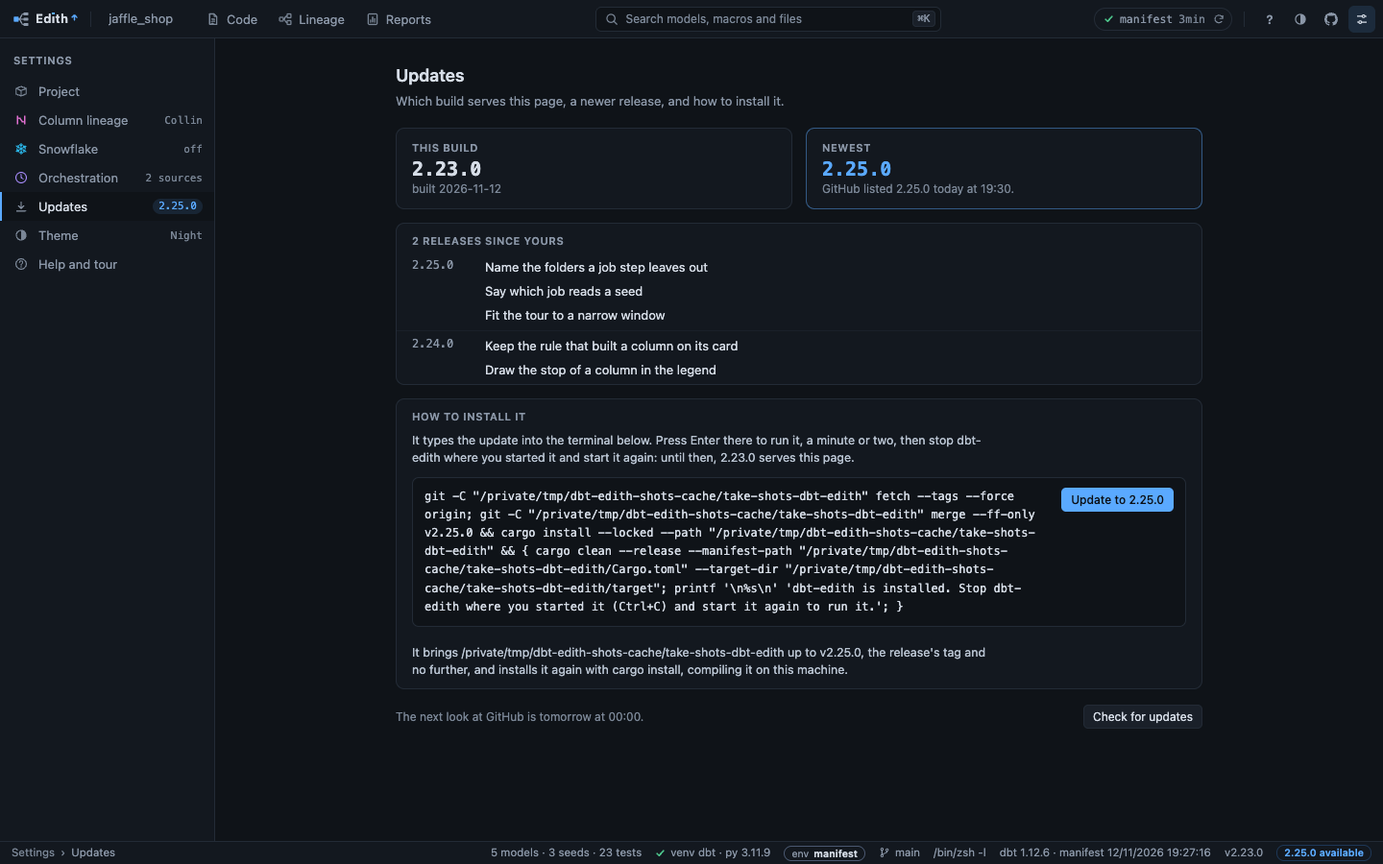
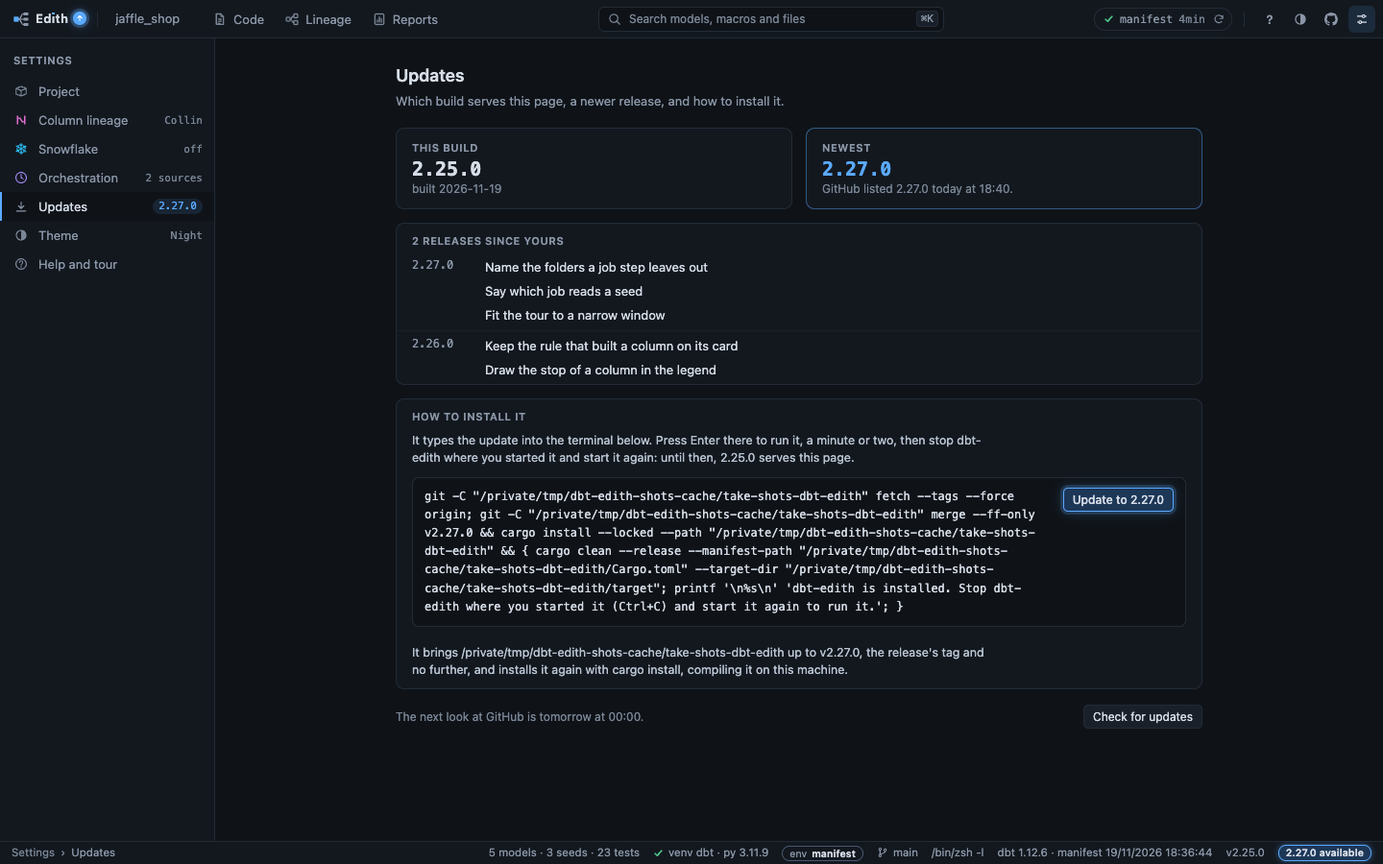
Mark a newer release with a badge (#223)
Every sign that a newer release is out (the arrow beside Edith's name,
the status bar's pill, the menu's "Update to" button, the Updates
section's Newest card and the version beside Updates in the settings'
list) read the theme's accent. In Graphite the accent is grey, so on a
Graphite install all five went grey, and the one state that wants to be
noticed was the quietest thing on the screen. They now keep a colour of
their own in every theme, and Edith's name carries a badge.

## What changes for someone using it

- **Graphite, the case this is for:** a newer release shows as a blue
  disc with a white arrow, ringed by a halo, in the corner of Edith's
  name; the status bar's pill is filled and glows; the "Update to"
  buttons in the menu and in Settings > Updates have a blue fill and a
  halo; the Newest card and the version beside Updates are blue. Nothing
  else in Graphite turns blue.
- **Night** looks the same blue as before for the colour, with the new
  badge, the filled pill and the halo. **Light** uses its own darker
  blue (at least 3:1 on its page and sidebar), **Halloween** its orange.
- Nothing changes when no newer release is out. No version bump: this
  lands in 2.25.0 together with the next change, Edith's mark moving at
  rest.

Pictures (Jaffle Shop, headless Chrome; before is main in Graphite,
after is this branch in Graphite and in Night):

| | Before (Graphite) | After (Graphite) | After (Night) |
|---|---|---|---|
[…]

diff --git a/web/app.css b/web/app.css
@@ -9,6 +9,10 @@
   --accent: #5aa9ff;
   --accent-rgb: 90, 169, 255;   /* --accent as channels, for the translucent copies of it */
   --accent-dim: #1d3757;
+  /* A newer release's colour, held in every theme so that Graphite's grey accent does not take it (0181). */
+  --update: #5aa9ff;
+  --update-dim: #1d3757;
+  --on-update: #ffffff;   /* the arrow drawn on the badge */
   --model: #4da3ff;
   --source: #e0a34b;
   --seed: #4ec78d;
@@ -472,6 +476,8 @@
   --accent: #1f6fd1;
   --accent-rgb: 31, 111, 209;
   --accent-dim: #d6e5f8;
+  --update: #1f6fd1;
+  --update-dim: #d6e5f8;
   /* States: a pictogram */
   --ok: #1e8a57;
   --warn: #b26b00;
@@ -614,6 +620,8 @@
   --accent: #ff7a1a;
   --accent-rgb: 255, 122, 26;
   --accent-dim: #7a3a0e;
+  --update: #ff7a1a;
+  --update-dim: #7a3a0e;
   /* States: a pictogram */
   --ok: #4ec78d;
   --warn: #e0a34b;
@@ -998,14 +1006,16 @@ kbd {
 #status-where .lead { color: var(--fg-mute); }
 #status-where .note, #status-where .sepa { color: var(--fg-mute); }
 #status-where .sepa { margin: 0 6px; }
-/* A newer dbt-edith (0068): outlined in the accent, quieter than an
-   environment's filled pill, since nothing is wrong with the one running. */
+/* A newer dbt-edith (0068): filled in the update colour, which every theme
+   keeps, Graphite's grey accent aside (0181), with a soft halo, so it is seen
+   across the bar although nothing is wrong with the one running. */
 .updpill {
-  font: 600 10.5px/15px var(--ui); color: var(--accent); background: transparent;
-  border: 1px solid var(--accent-dim); border-radius: 8px; padding: 0 7px; cursor: pointer;
+  font: 600 10.5px/15px var(--ui); color: var(--fg); background: var(--update-dim);
+  border: 1px solid var(--update); border-radius: 8px; padding: 0 7px; cursor: pointer;
+  box-shadow: 0 0 6px color-mix(in srgb, var(--update) 45%, transparent);
 }
-.updpill:hover { border-color: var(--accent); }
-.updpill:focus-visible { outline: 2px solid var(--accent); outline-offset: 1px; }
+.updpill:hover { background: color-mix(in srgb, var(--update) 35%, var(--bg)); }
+.updpill:focus-visible { outline: 2px solid var(--update); outline-offset: 1px; }
 /* The venv (0069): green with a check once one is active, amber with a
    triangle when one was found but is not, since a dbt typed in the terminal
    then runs whatever python comes first on the PATH. Tinted rather than
@@ -1054,16 +1064,18 @@ kbd {
 .relrow .ver { flex: 0 0 46px; font: 10.5px var(--mono); color: var(--fg-dim); }
 .relrow .lbl { flex: 1; min-width: 0; overflow: hidden; text-overflow: ellipsis; white-space: nowrap; }
 .updfoot .menunote { flex: 1; padding-bottom: 0; }
-/* The update, drawn as the app's primary button with how it goes under it,
-   and once it is installed the restart it waits for, in the colour of done. */
+/* The update, drawn as the app's primary button in the update colour (0181),
+   ringed by a still halo, with how it goes under it, and once it is installed
+   the restart it waits for, in the colour of done. */
 .envmenu button.updrun {
   display: inline-block; width: auto; margin: 4px 8px 2px; padding: 5px 12px;
-  background: var(--accent-dim); border: 1px solid var(--accent); border-radius: 5px; font-weight: 600;
+  background: var(--update-dim); border: 1px solid var(--update); color: var(--fg); border-radius: 5px; font-weight: 600;
+  box-shadow: 0 0 0 3px color-mix(in srgb, var(--update) 18%, transparent), 0 0 12px color-mix(in srgb, var(--update) 30%, transparent);
 }
-.envmenu button.updrun:hover, .envmenu button.updrun:focus-visible { background: var(--accent-hover); }
-.envmenu button.updrun:focus:not(:focus-visible) { background: var(--accent-dim); }
+.envmenu button.updrun:hover, .envmenu button.updrun:focus-visible { background: color-mix(in srgb, var(--update) 40%, var(--bg)); }
+.envmenu button.updrun:focus:not(:focus-visible) { background: var(--update-dim); }
 /* The second command of a choice, drawn as the menu's other buttons are. */
-.envmenu button.updrun.alt { background: var(--bg-3); border-color: var(--line); font-weight: 500; }
+.envmenu button.updrun.alt { background: var(--bg-3); border-color: var(--line); font-weight: 500; box-shadow: none; }
 .envmenu button.updrun.alt:hover, .envmenu button.updrun.alt:focus-visible { background: var(--btn-hover); border-color: var(--line-strong); }
 .envmenu button.updrun.alt:focus:not(:focus-visible) { background: var(--bg-3); }
 .updmenu .updready { padding: 4px 8px 2px; font: 600 12px var(--ui); color: var(--ok); }
@@ -1131,14 +1143,22 @@ kbd {
   .brand.flowing .bm-pk { opacity: 0; }
   .brand.flowing .bm-arm { opacity: 1; stroke: var(--accent); }
 }
-/* A newer release is out: the Updates glyph beside the name, at the height of
-   its capitals and inside the button so the divider after it stays clear, the
-   pill in the status bar saying which. In the pill's accent, not the warning
-   colour: nothing is wrong with the one running. */
-.brand.newer { padding-right: 15px; }
+/* A newer release is out: a badge in the corner of the name, inside the button
+   so the divider after it stays clear, the pill in the status bar saying which.
+   The disc is the badge's ground, in the update colour with a ring and a glow
+   around it, and the Updates arrow on it is the shape that carries the meaning
+   (0148): white, over a disc that is blue in every theme, Graphite's grey
+   accent aside (0181). Nothing is wrong with the one running, so it is not the
+   warning colour. */
+.brand.newer { padding-right: 22px; }
+.brand.newer::before {
+  content: ''; position: absolute; top: 4px; right: 3px; width: 14px; height: 14px; border-radius: 50%;
+  background: var(--update);
+  box-shadow: 0 0 0 3px color-mix(in srgb, var(--update) 25%, transparent), 0 0 10px color-mix(in srgb, var(--update) 55%, transparent);
+}
 .brand.newer::after {
-  content: ''; position: absolute; top: 6px; right: 4px; width: 9px; height: 9px;
-  background: var(--accent); -webkit-mask: var(--m-newer) center / contain no-repeat; mask: var(--m-newer) center / contain no-repeat;
+  content: ''; position: absolute; top: 7px; right: 6px; width: 8px; height: 8px;
+  background: var(--on-update); -webkit-mask: var(--m-newer) center / contain no-repeat; mask: var(--m-newer) center / contain no-repeat;
 }
 .sep { width: 1px; height: 18px; background: var(--line); }
 /* The settings' Python row (.setinner .chip, below) is built on these: the top bar's
@@ -1863,7 +1883,7 @@ kbd {
 .setglyph { width: 14px; height: 14px; fill: none; stroke: currentColor; stroke-width: 1.4; stroke-linecap: round; stroke-linejoin: round; }
 .setwarn { margin-left: auto; width: 10px; height: 10px; flex: 0 0 auto; background: var(--warn); -webkit-mask: var(--m-warn) center / contain no-repeat; mask: var(--m-warn) center / contain no-repeat; }
 .sethint { margin-left: auto; flex: 0 0 auto; font: 11px var(--mono); color: var(--fg-mute); }
-.sethint.new { padding: 0 6px; border-radius: 8px; line-height: 16px; color: var(--accent); background: rgba(var(--accent-rgb), .12); }
+.sethint.new { padding: 0 6px; border-radius: 8px; line-height: 16px; color: var(--update); background: color-mix(in srgb, var(--update) 12%, transparent); }
 .setview { flex: 1 1 0; min-width: 0; overflow: auto; }
 .setinner { flex: none; width: 100%; max-width: 920px; margin: 0 auto; padding: 26px 40px 48px; }
 .sethead { margin-bottom: 18px; }
@@ -1899,6 +1919,10 @@ kbd {
 .setinner .btn { display: inline-flex; align-items: center; gap: 6px; }
 .setinner .btn.primary { background: var(--accent); border-color: transparent; color: var(--on-accent); font-weight: 500; }
 .setinner .btn.primary:hover { background: var(--accent); filter: brightness(1.08); }
+/* The recommended install of a newer release, as the menu's button is (0181). */
+.setinner .btn.primary.updgo { background: var(--update-dim); border-color: var(--update); color: var(--fg);
+  box-shadow: 0 0 0 3px color-mix(in srgb, var(--update) 18%, transparent), 0 0 12px color-mix(in srgb, var(--update) 30%, transparent); }
+.setinner .btn.primary.updgo:hover { background: color-mix(in srgb, var(--update) 40%, var(--bg)); filter: none; }
 .setinner .mono { font: 12px var(--mono); }
 .setinner .dim { color: var(--fg-mute); font-size: 12px; }
 .setnote { margin: 4px 0; font-size: 12px; line-height: 1.5; color: var(--fg-dim); }
@@ -1999,10 +2023,10 @@ kbd {
 /* Updates: this build beside the newest, the releases since, how to install. */
 .vcards { display: grid; grid-template-columns: 1fr 1fr; gap: 14px; }
 .vcard { padding: 12px 16px; border: 1px solid var(--line); border-radius: 9px; background: var(--bg-2); }
-.vcard.new { border-color: rgba(var(--accent-rgb), .45); }
+.vcard.new { border-color: color-mix(in srgb, var(--update) 45%, transparent); }
 .vk { font-size: 11px; font-weight: 600; letter-spacing: .05em; text-transform: uppercase; color: var(--fg-dim); }
 .setinner .vv { margin-top: 2px; font: 600 20px var(--mono); }
-.vcard.new .vv { color: var(--accent); }
+.vcard.new .vv { color: var(--update); }
 /* Words, where there is no version to show: the text size, quietly. */
 .setinner .vv.words { margin-top: 2px; font: 13px/1.45 var(--ui); color: var(--fg-dim); }
 .vs { font-size: 12px; color: var(--fg-mute); }

diff --git a/web/tests/themes.js b/web/tests/themes.js
@@ -51,8 +51,8 @@ check('app.css opens with Night, the rule the other three share, then Graphite, 
 check('the rules begin with the box model reset', css.slice(blocks[4].end).replace(/^(?:\s|\/\*[\s\S]*?\*\/)*/, '').indexOf('* { box-sizing'), 0);
 ok('every name any block declares is declared in Night, so a theme has something to part from',
   [derived, graphite, light, halloween].every(function (b) { return b.names.every(function (n) { return n in night.decl; }); }));
-check('Graphite and Halloween declare the same set',
-  graphite.names.slice().sort(), halloween.names.slice().sort());
+check('Graphite and Halloween declare the same set, Halloween adding its own update colour (0181)',
+  graphite.names.concat(['--update', '--update-dim']).sort(), halloween.names.slice().sort());
 ok('Light declares that set and its own twins', graphite.names.every(function (n) { return n in light.decl; }) && light.names.length > graphite.names.length);
 check('each says whether it is dark or light', [night.decl['color-scheme'], graphite.decl['color-scheme'], light.decl['color-scheme'], halloween.decl['color-scheme']],
   ['dark', 'dark', 'light', 'dark']);
@@ -232,6 +232,24 @@ check('every theme declares all sixteen ANSI colours itself',
     ANSI.filter(function (n) { return n !== '--ansi-k' && ratio(b.decl[n], own('--bg')) < 3; })
       .map(function (n) { return n + ' ' + b.decl[n] + ' ' + ratio(b.decl[n], own('--bg')).toFixed(2); }), []);
 });
+
+// A newer release keeps its colour in every theme (0181): Night names it, Light and Halloween restate it as their accent pair, Graphite
+// does not, so its grey accent never reaches the badge, the pill or the button.
+(function () {
+  var names = ['--update', '--update-dim', '--on-update'];
+  check('Night names the update colour, its dim and the arrow on it; Graphite names none of them',
+    [names.filter(function (n) { return !(n in night.decl); }), names.filter(function (n) { return n in graphite.decl; })], [[], []]);
+  check('Light and Halloween restate the pair as their accent pair, and not the arrow',
+    [light, halloween].map(function (b) { return [b.decl['--update'] === b.decl['--accent'], b.decl['--update-dim'] === b.decl['--accent-dim'], '--on-update' in b.decl]; }),
+    [[true, true, false], [true, true, false]]);
+  check('Night\'s pair is its accent pair', [night.decl['--update'] === night.decl['--accent'], night.decl['--update-dim'] === night.decl['--accent-dim']], [true, true]);
+  check('Graphite takes Night\'s, which has a tint where its accent has none', (function () {
+    var c = channels2(night.decl['--update']);
+    return [c[0] !== c[2], night.decl['--update'] !== graphite.decl['--accent']];
+  }()), [true, true]);
+  check('Light\'s update colour is at least 3:1 on its page and its sidebar, the badge\'s ring and the pill\'s border being graphics',
+    [ratio(light.decl['--update'], light.decl['--bg']) >= 3, ratio(light.decl['--update'], light.decl['--bg-2']) >= 3], [true, true]);
+}());
 
 print('\n--- Graphite ---');
 function channels(v) {

diff --git a/web/tests/shapes.js b/web/tests/shapes.js
@@ -58,6 +58,7 @@ print('--- nothing is a round marker ---');
 var ROUND = {
   '.envmenu button.switch .knob, .sgroup button.switch .knob': 'where it sits on its track is the state',
   '.rb': 'a radio\'s ring is the control, picked or not',
+  '.brand.newer::before': 'the badge\'s ground: the arrow on it, masked in ::after, is the shape that says a release is out',
 };
 var round = rules.filter(function (r) { return /border-radius:\s*(50%|100%|\d{3,}px)/.test(r.body); });
 check('every round rule of app.css is a control on the allowlist, each with its reason',
@@ -84,6 +85,9 @@ print('\n--- every marker is drawn with a shape ---');
 ].forEach(function (sel) {
   check(sel + ' masks a --m-* shape', masks(sel), true);
 });
+check('Edith\'s badge draws the Updates arrow, masked as newer, in the colour for what is drawn on the update colour',
+  [maskedAs('.brand.newer::after', 'newer'), declares('.brand.newer::after', /background:\s*var\(--on-update\)/),
+    declares('.brand.newer::before', /background:\s*var\(--update\)/)], [true, true, true]);
 check('a kind\'s dot is a bar: 3px wide, corners of 2px',
   [declares('.dot', /width:\s*3px/), declares('.dot', /border-radius:\s*2px/)], [true, true]);
 check('and so are its places in the card head and the Catalog title',

diff --git a/web/app.js b/web/app.js
@@ -14676,7 +14676,7 @@ function paintSetUpdates(box) {
     // One command per button, the recommended first and drawn as the primary
     // one; each types its line into the terminal and leaves Enter to you (0123).
     o.options.forEach((option, i) => {
-      const run = jel('button', i ? 'btn' : 'btn primary', option.button);
+      const run = jel('button', i ? 'btn' : 'btn primary updgo', option.button);
       run.type = 'button';
       run.dataset.key = 'upd:' + option.kind;
       run.title = option.command;

diff --git a/docs/decisions/0181-a-newer-release-keeps-its-colour-in-every-theme.md b/docs/decisions/0181-a-newer-release-keeps-its-colour-in-every-theme.md
@@ -1,0 +1,66 @@
+# 0181. A newer release keeps its colour in every theme
+
+Date: 2026-11-19 · Status: accepted · Amends 0148, 0150
+
+**Trigger:** read before changing the colour or the drawing of what says a
+newer release is out: Edith's badge, the status bar's pill, the menu's update
+button or the Updates section's cards and button.
+
+## Context
+
+Every sign of a newer release read the accent: the arrow beside Edith's name,
+the status bar's pill, the menu's "Update to" button, the Updates section's
+Newest card, and the version beside Updates in the settings' list. In Graphite
+the accent is grey, so on a real install all five went grey, and a state that
+wants to be noticed was the quietest thing on the bar.
+The user compared two mockups of a way out and chose the badge, drawn below.
+
+## Decision
+
+- **Three names, in the blocks at the top of `web/app.css` (0150).** Night
+  holds them as literals: `--update` and `--update-dim`, its accent pair, and
+  `--on-update`, white, the arrow drawn on the badge. Light and Halloween
+  restate the pair as their own accent pair (Light's blue, Halloween's orange,
+  as its ghost's glow). Graphite restates nothing, so it keeps Night's blue
+  and never takes its grey accent.
+- **Edith's badge.** A disc in `--update`, 14px, in the corner of the name and
+  inside the button, ringed by a halo of the same colour. The disc is a round
+  ground, allowed on the list of `web/tests/shapes.js` with its reason; the
+  Updates arrow on it, still the `--m-newer` mask in `--on-update`, is the shape
+  that carries the meaning (0148).
+- **The status bar's pill is filled**: `--update-dim` with an `--update` border
+  and a small halo, text in the page's text colour.
+- **The menu's update button, and the recommended install button of the
+  Updates section, share one look**: `--update-dim` fill, `--update` border, a
+  still halo around it. The second command of a choice keeps the menu's other
+  buttons' look, with no halo. The section's Newest card takes its border and
+  its version in `--update`, and so does the version beside Updates in the
+  settings' list (`.sethint.new`), with a 12% wash of it.
+- **The halo is still.**
+
+## Rejected
+
+- **The arrow alone in blue, with a glow behind it.** Less visible: at 9px it
+  is a speck.
+- **Graphite's own way, an inverted grey button.** It fits the theme and
+  catches the eye less, which is the fault this answers.
+- **A pulsing halo.** A static one is enough: nothing should move for a state
+  that lasts hours.
+- **Leaving a release's colour to each theme's accent**, as it was: the
+  reason for this decision.
+
+## Consequences
+
+A fourth set of names in the theme blocks, which a theme restates only if its
+accent is a colour that says "new". The test of the blocks holds Halloween to
+Graphite's set plus the pair. The arrow is white on every theme, 2.5:1 on
+Night's blue: the disc, its ring and its halo are what is seen, the arrow what
+is read, and it does not stand alone.
+
+*Amends 0148*: the Updates arrow, the one marker of a newer release, is now
+drawn on a round ground of its own, which 0148's list of round shapes allows
+with its reason; the arrow is still the shape that says it.
+
+*Amends 0150*: a meaning's colour may be held apart from the accent, so that a
+theme whose accent is grey does not take it. The update colour is held in Night
+and restated by Light and Halloween, and Graphite takes none.

diff --git a/AGENTS.md b/AGENTS.md
@@ -310,6 +310,7 @@ frontend fix does not exist in a release binary until it is rebuilt (see 0005).
 | release a version, change how one is tagged and published, or choose which pull request bumps it | [0045](docs/decisions/0045-merging-a-version-bump-releases-it.md), [0175](docs/decisions/0175-a-version-gathers-a-group-of-pull-requests.md) |
 | change what `--site` reads or writes, where it writes, what the page it writes may do, or how the browser answers what the server does | [0177](docs/decisions/0177-a-static-site-is-written-from-dbts-artifacts.md), [0178](docs/decisions/0178-the-site-is-written-inside-the-project-into-a-marked-folder.md), [0026](docs/decisions/0026-the-lineage-exports-as-one-html-file.md), [0121](docs/decisions/0121-git-runs-nothing-a-repositorys-own-config-names.md) |
 | make dbt-edith reach the network on its own, or change the update offer | [0068](docs/decisions/0068-a-newer-dbt-edith-is-looked-for-once-a-day-through-git.md) |
+| change the colour or the look of what says a newer release is out: Edith's badge, the status bar's pill, the update button | [0181](docs/decisions/0181-a-newer-release-keeps-its-colour-in-every-theme.md), [0148](docs/decisions/0148-a-meaning-has-one-shape-and-no-marker-is-a-round-dot.md), [0150](docs/decisions/0150-a-theme-is-a-set-of-variables-on-the-page-and-halloween-is-one.md) |
 | change when a newer release is looked for, or what Edith's menu shows | [0079](docs/decisions/0079-an-update-is-looked-for-hourly-through-the-paris-night-and-on-demand.md), [0068](docs/decisions/0068-a-newer-dbt-edith-is-looked-for-once-a-day-through-git.md) |
 | change what the update types, or what the menu offers once it has run | [0095](docs/decisions/0095-the-update-says-when-it-is-installed-and-brings-its-tags.md), [0111](docs/decisions/0111-the-update-ends-on-a-line-and-a-card-and-a-failed-build-is-a-failure.md), [0120](docs/decisions/0120-the-update-empties-the-clones-target-once-installed.md), [0129](docs/decisions/0129-the-update-brings-the-clone-up-to-the-tag-it-announced.md) |
 | change what a release carries, how the Windows `.exe` is built, what is checked before it is published, or what the update types for a binary that came from a release | [0123](docs/decisions/0123-the-windows-exe-is-built-by-ci-and-the-update-downloads-it.md), [0152](docs/decisions/0152-a-release-is-checked-on-virustotal-before-it-is-published.md), [0174](docs/decisions/0174-a-release-shows-its-virustotal-result.md), [0179](docs/decisions/0179-the-virustotal-badge-reads-the-json-s-message.md), [0093](docs/decisions/0093-the-exe-names-its-publisher-when-windres-is-there.md), [0111](docs/decisions/0111-the-update-ends-on-a-line-and-a-card-and-a-failed-build-is-a-failure.md) |

diff --git a/docs/features/updates.md b/docs/features/updates.md
@@ -5,12 +5,15 @@ How dbt-edith learns a newer release is out, and what it offers to do about it.
 It asks GitHub, through git, which releases there are, every hour from midnight
 to 09:00 Paris time and then not until the next midnight, so the first start of
 your day knows what came out overnight, wherever you are. When one is newer, a
-pill after the version in the status bar says so and the Updates arrow, a down
-arrow onto a line, marks Edith at the top left. Resting the pointer on Edith
-opens a menu, as a click does, and the pill opens the same in the Updates
-section of the settings, drawn as cards: the version and build you run beside
-the newest release, in the accent when it is newer, every release since yours
-with the title of each pull request it holds that changed CHANGELOG.md,
+pill after the version in the status bar says so and a badge, an up arrow on
+a disc in the update colour ringed by a halo, marks Edith at the top left. The
+update keeps its colour in every theme, blue in Graphite too, where the accent
+is grey; the pill, the menu's install button, the settings' recommended one
+and the version beside Updates in the settings' list are drawn in it too
+(0181). Resting the pointer on Edith opens a menu, as a click does, and the
+pill opens the same in the Updates section of the settings, drawn as cards: the
+version and build you run beside the newest release, in the update colour when
+it is newer, every release since yours with the title of each pull request it holds that changed CHANGELOG.md,
 a row each under its version, the first eight and a count of the rest, every
 row linked to the release's notes, and, for a binary installed or built from a clone on that machine, the
 clone brought up to the release and the install typed into the terminal for you to run, or for a release's own Windows `.exe`

diff --git a/docs/decisions/README.md b/docs/decisions/README.md
@@ -183,6 +183,7 @@ it; these files say why it is built this way, for whoever changes it next.
 | [0177](0177-a-static-site-is-written-from-dbts-artifacts.md) | A static site is written from dbt's artifacts | changing what `--site` reads or writes, what the page it writes may do, or how it answers a question the server answers |
 | [0178](0178-the-site-is-written-inside-the-project-into-a-marked-folder.md) | The site is written inside the project, into a folder Edith marks | changing where `--site` writes, what it empties, or adding a way to write elsewhere |
 | [0179](0179-the-virustotal-badge-reads-the-json-s-message.md) | The VirusTotal badge reads the JSON's message | changing the README's VirusTotal badge, the host that draws it, or its colour |
+| [0181](0181-a-newer-release-keeps-its-colour-in-every-theme.md) | A newer release keeps its colour in every theme | changing the colour, the badge, the pill or the buttons that say a newer release is out |
 
 ## Keeping these honest
 

diff --git a/docs/decisions/0148-a-meaning-has-one-shape-and-no-marker-is-a-round-dot.md b/docs/decisions/0148-a-meaning-has-one-shape-and-no-marker-is-a-round-dot.md
@@ -1,6 +1,6 @@
 # 0148. A meaning has one shape, and no marker is a round dot
 
-Date: 2026-11-05 · Status: accepted, amended by 0151 and 0169 (the clock) · Amends 0049, 0079, 0100, 0117 and 0137
+Date: 2026-11-05 · Status: accepted, amended by 0151, 0169 (the clock) and 0181 (the update's badge) · Amends 0049, 0079, 0100, 0117 and 0137
 
 **Trigger:** read before adding a marker for a kind, a state, an environment or
 a tool, or before drawing anything small and round in the page.

diff --git a/docs/features/look.md b/docs/features/look.md
@@ -40,7 +40,7 @@ focused again.
 
 - **Night**: deep blue, the default.
 - **Graphite**: neutral grey with no tint, and colour only where it means
-  something.
+  something: a newer release keeps its blue (0181).
 - **Light**: for daylight and screenshots. Each colour that means something is
   darker than in Night, at least 3:1 on the page and on the sidebar's grey, the
   kind and file marks also on a selected row's wash (in the tree and Open

diff --git a/docs/decisions/0150-a-theme-is-a-set-of-variables-on-the-page-and-halloween-is-one.md b/docs/decisions/0150-a-theme-is-a-set-of-variables-on-the-page-and-halloween-is-one.md
@@ -1,6 +1,6 @@
 # 0150. A theme is a set of variables on the page, and Halloween is one
 
-Date: 2026-11-05 · Status: accepted, amended by 0151, 0161 and 0170 · Amends 0106 and 0107
+Date: 2026-11-05 · Status: accepted, amended by 0151, 0161, 0170 and 0181 · Amends 0106 and 0107
 
 **Trigger:** read before adding or changing a theme, the theme button or its
 menu, what `look.json` holds, which theme an export is drawn in, or the

diff --git a/CHANGELOG.md b/CHANGELOG.md
@@ -20,6 +20,9 @@ and bumps nothing.
 
 ## Unreleased
 
+- Mark a newer release with a badge and a halo on Edith, blue in Graphite too,
+  with the status bar's pill and the update buttons in the same colour (0181).
+
 ## 2.24.0 - 2026-11-12
 
 - Write a static documentation site from the manifest and the catalog with
